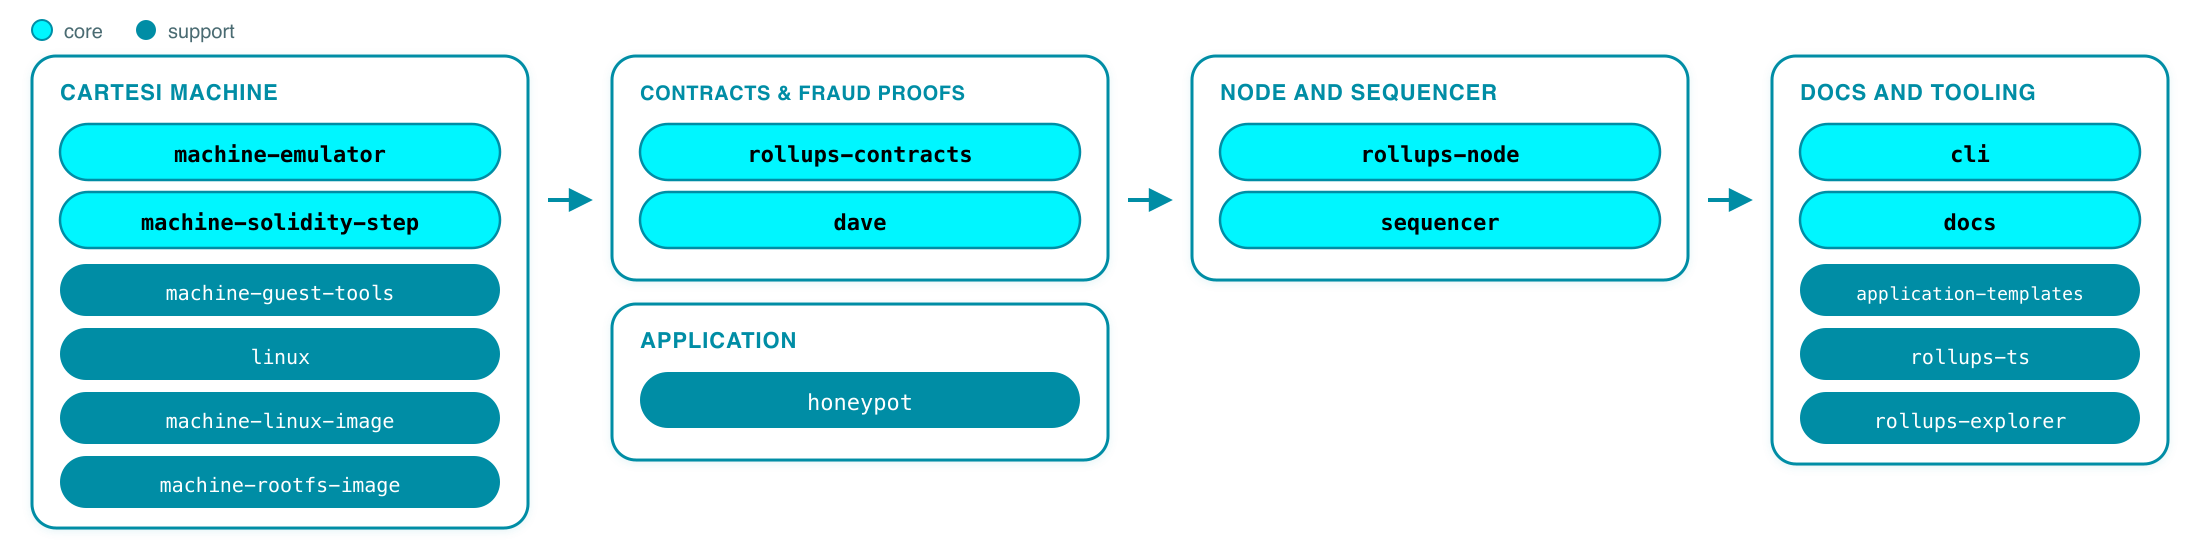
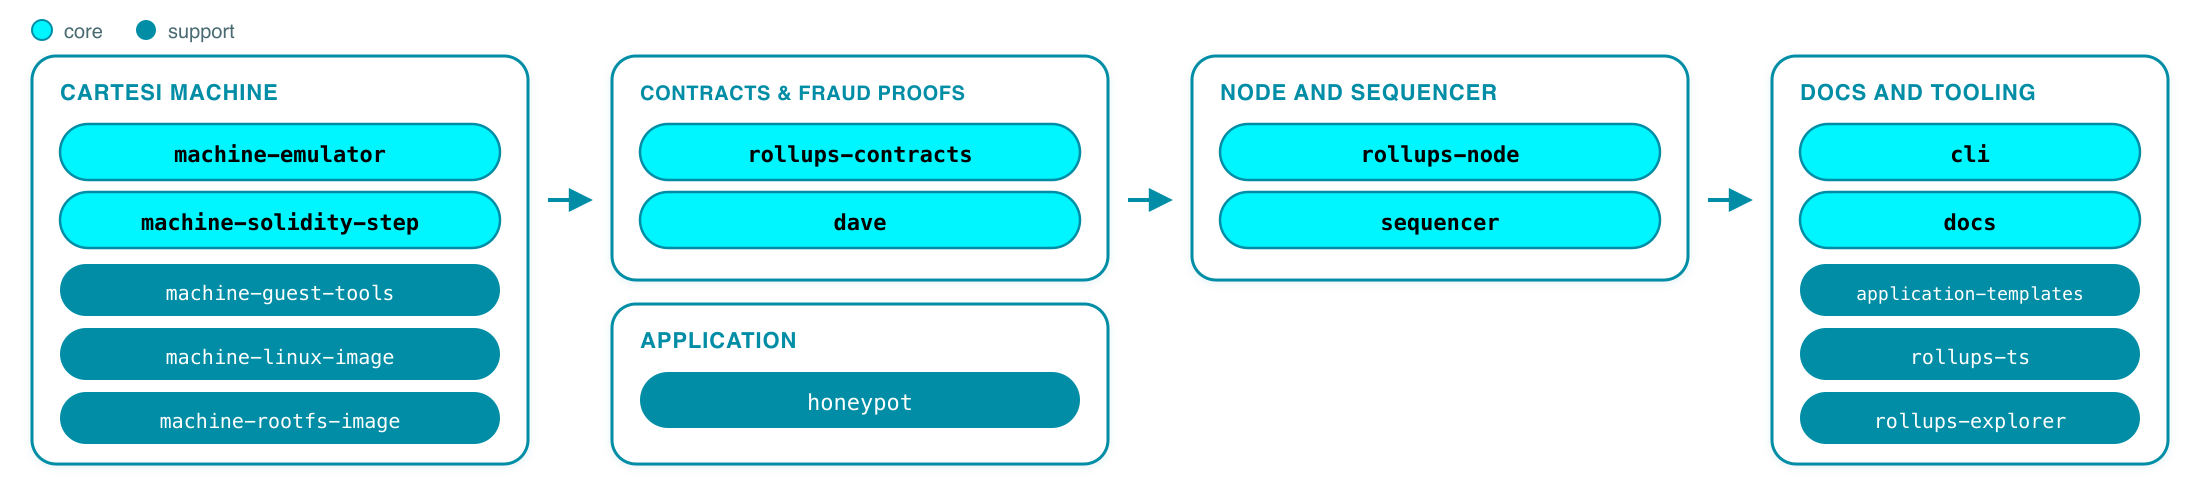
Promote the revised engineering map as the org README.
Keep the previous README as README.outdated.md and replace the stack diagram with the version that omits the linux kernel source repo.

diff --git a/README.md b/README.md
@@ -1,62 +1,62 @@
 # Cartesi Engineering Map
 
-[Cartesi](https://cartesi.io) enables developers to build with the languages, libraries, and tools they know and love. Computation runs inside a deterministic RISC-V virtual machine with a full Linux runtime (the **Cartesi Machine**).
+[Cartesi](https://cartesi.io) enables developers to build with the languages, libraries, and tools they know and love. Application computation runs inside a deterministic RISC-V virtual machine with a full Linux runtime (the **Cartesi Machine**).
 
-This page maps the repositories that make up Cartesi’s current engineering stack, with a focus on the **Rollups v2** architecture under active integration as of mid-2026.
+This page provides a curated map of the repositories that make up and support Cartesi’s current engineering stack, with a particular focus on the **Rollups v2** architecture under active integration as of mid-2026.
 
-> **Note:** This map is not exhaustive. Older, supporting, and superseded repositories remain public and open source on [`github.com/cartesi`](https://github.com/cartesi) for anyone to inspect, build on, or continue developing.
+> **Note:** This map is not exhaustive. Older, supporting, and superseded repositories remain public and open source on `[github.com/cartesi](https://github.com/cartesi)` for anyone to inspect, build on, or continue developing.
 
 ## Current engineering stack
 
-The Rollups stack is versioned as a dependency chain. Changes propagate in a fixed order: machine → contracts / fraud proofs → node → TypeScript / explorer / CLI → templates.
+Coordinated releases generally flow from the execution layer into contracts and fraud proofs, then the node, client tooling, explorer, CLI, and templates. The diagram below groups repositories by layer where cyan marks **core** components and teal marks **supporting** ones.
 
 ![Cartesi Rollups v2 engineering stack](./engineering-stack-white.png)
 
-#### How the pieces fit
+### How the pieces fit
 
-1. **Cartesi Machine** — deterministic RISC-V + Linux execution ([`machine-emulator`](https://github.com/cartesi/machine-emulator)), with an on-chain micro-architecture step verifier ([`machine-solidity-step`](https://github.com/cartesi/machine-solidity-step)) and guest-side tooling / rootfs ([`machine-guest-tools`](https://github.com/cartesi/machine-guest-tools), Linux image repos).
-2. **Rollups contracts** — L1 data availability (`InputBox`), application settlement, portals, Authority / Quorum consensus, and emergency-withdrawal primitives ([`rollups-contracts`](https://github.com/cartesi/rollups-contracts)).
-3. **Fraud proofs** — permissionless dispute system ([`dave`](https://github.com/cartesi/dave), PRT today; Dave algorithm next), coupled tightly to contracts and the machine step.
-4. **Node** — middleware between L1 contracts, the machine, and clients ([`rollups-node`](https://github.com/cartesi/rollups-node)): advance/inspect, claims, GraphQL / JSON-RPC surfaces.
-5. **Sequencer** — optional low-latency soft-confirmation path ([`sequencer`](https://github.com/cartesi/sequencer)); shares the emulator and is converging on node deployment conventions, not yet a required dependency of the SDK release train.
-6. **Docs and tooling** — [`CLI`](https://github.com/cartesi/cli), templates, TypeScript clients, explorer, and documentation.
+1. **Cartesi Machine** - Deterministic RISC-V + Linux execution (`[machine-emulator](https://github.com/cartesi/machine-emulator)`), with an on-chain micro-architecture step verifier (`[machine-solidity-step](https://github.com/cartesi/machine-solidity-step)`) and guest-side tooling / rootfs (`[machine-guest-tools](https://github.com/cartesi/machine-guest-tools)`, `[machine-linux-image](https://github.com/cartesi/machine-linux-image)`, `[machine-rootfs-image](https://github.com/cartesi/machine-rootfs-image)`).
+2. **Rollups Contracts** - L1 data availability (`InputBox`), application settlement, asset portals, and Authority / Quorum consensus and emergency-withdrawal primitives. (`[rollups-contracts](https://github.com/cartesi/rollups-contracts)`).
+3. **Fraud Proofs** - Permissionless dispute-resolution system (`[dave](https://github.com/cartesi/dave)`). PRT is the algorithm in use today; the eponymous Dave algorithm is research / next. Coupled tightly to rollups-contracts and the machine step.
+4. **Rollups Node** - Middleware between base layer contracts, the machine, and clients (`[rollups-node](https://github.com/cartesi/rollups-node)`): Machine advance, claims, a frontend JSON-RPC API, and a separate inspect REST API.
+5. **Sequencer** - Optional low-latency path for UX (`[sequencer](https://github.com/cartesi/sequencer)`): soft-confirms user operations and posts them in batches to InputBox. Not part of the SDK / CLI release train.
+6. **Docs and tooling** - Developer-facing entry points for learning, building, and testing applications: `[CLI](https://github.com/cartesi/cli)`, `[application-templates](https://github.com/cartesi/application-templates)`, TypeScript clients (`[rollups-ts](https://github.com/cartesi/rollups-ts)`), Explorer (`[rollups-explorer](https://github.com/cartesi/rollups-explorer)`), and `[docs](https://github.com/cartesi/docs)`.
 
 ## Start here
 
-- **Understand the architecture** — [Rollups architecture](https://docs.cartesi.io/cartesi-rollups/2.0/getting-started/architecture/)
-- **Explore the execution layer** — [Cartesi Machine docs](https://github.com/cartesi/machine-emulator/blob/main/doc/README.md)
-- **Build an application** — [Quickstart guide](https://docs.cartesi.io/get-started/quickstart/)
-
+- **Understand the architecture** - [Rollups architecture](https://docs.cartesi.io/cartesi-rollups/2.0/getting-started/architecture/)
+- **Build an application** - [Quickstart guide](https://docs.cartesi.io/get-started/quickstart/)
+- **Explore the execution layer** - [Cartesi Machine docs](https://github.com/cartesi/machine-emulator/blob/main/doc/README.md)
 
 ## Repository map
 
-| Repository | Purpose | Status |
-| --- | --- | --- |
-| [machine-emulator](https://github.com/cartesi/machine-emulator) | Off-chain RISC-V Cartesi Machine (C++). Deterministic Linux VM, Merkle proofs, JSON-RPC / Lua / C APIs. Optional RISC Zero step-proving path. Continuously developed alongside production releases. | Production |
-| [machine-solidity-step](https://github.com/cartesi/machine-solidity-step) | On-chain micro-architecture state-transition function; must match the emulator bit-for-bit for fraud proofs. | Production |
-| [machine-guest-tools](https://github.com/cartesi/machine-guest-tools) | Guest tools, RISC-V Debian packages, and root filesystem artifacts for machines. | Production |
-| [linux](https://github.com/cartesi/linux) | Cartesi-patched Linux kernel sources. | Production |
-| [machine-linux-image](https://github.com/cartesi/machine-linux-image) | Build pipeline for the kernel image. | Production |
-| [machine-rootfs-image](https://github.com/cartesi/machine-rootfs-image) | Build pipeline for the root filesystem image. | Production |
-| [rollups-contracts](https://github.com/cartesi/rollups-contracts) | Rollups smart contracts: InputBox, Application, portals, Authority/Quorum, claim staging, emergency withdrawal. Deployed as a public good on major EVM chains. v2 line in production; v3 alphas under active development. | Production |
-| [dave](https://github.com/cartesi/dave) | Permissionless fraud-proof suite (PRT algorithm; Dave algorithm research/next). Contracts + Rust/Lua nodes. Versioned with rollups-contracts. Experimental / alpha. | Experimental |
-| [honeypot](https://github.com/cartesi/honeypot) | Hardened ERC-20 vault DApp used as a security reference on Cartesi Rollups. | Production |
-| [rollups-node](https://github.com/cartesi/rollups-node) | Reference Rollups node: L1 reader, machine runner, claims, GraphQL / inspect / JSON-RPC. Integration pivot for the SDK. v2 alphas toward stable. | Active development |
-| [sequencer](https://github.com/cartesi/sequencer) | Deterministic sequencer with soft confirmations, batch submission, recovery, and watchdog. Prototype / alpha; testnet deployment in progress. | Experimental |
-| [cli](https://github.com/cartesi/cli) | Cartesi CLI + SDK image: create, build, run, deploy. Successor to Sunodo branding. v2 alphas. | Active development |
-| [application-templates](https://github.com/cartesi/application-templates) | Templates consumed by `cartesi create`. | Active development |
-| [rollups-ts](https://github.com/cartesi/rollups-ts) | TypeScript libraries (`@cartesi/rpc`, client/react packages, etc.) for frontends and tooling. | Active development |
-| [rollups-explorer](https://github.com/cartesi/rollups-explorer) | Rollups application explorer UI. | Active development |
-| [rollups-explorer-api](https://github.com/cartesi/rollups-explorer-api) | Indexer / API behind the Rollups explorer. | Active development |
-| [docs](https://github.com/cartesi/docs) | Official documentation (Docusaurus), including machine-readable / LLM-oriented delivery. Continuously updated alongside the stack. | Production |
+The table below lists the repositories in the current stack, with a short purpose for each and a status label. The *Status* column describes a repository’s role in this mapped stack:
+
+- **Production** - stable releases in production use (may still receive ongoing development)
+- **Active development** - part of the current Rollups v2 integration train; expect change until the stack stabilizes
+- **Experimental** - prototype or research; not yet validated for broader use
+
+
+| Repository                                                                | Purpose                                                                                                                                                                                                                      | Status             |
+| ------------------------------------------------------------------------- | ---------------------------------------------------------------------------------------------------------------------------------------------------------------------------------------------------------------------------- | ------------------ |
+| [machine-emulator](https://github.com/cartesi/machine-emulator)           | Off-chain RISC-V Cartesi Machine (C++). Deterministic Linux VM, Merkle proofs, JSON-RPC / Lua / C APIs. Optional RISC Zero integration for proofs of machine state transitions.                                              | Production         |
+| [machine-solidity-step](https://github.com/cartesi/machine-solidity-step) | On-chain micro-architecture state-transition function; must match the emulator bit-for-bit for fraud proofs.                                                                                                                 | Production         |
+| [machine-guest-tools](https://github.com/cartesi/machine-guest-tools)     | Guest tools, RISC-V Debian packages, and root filesystem artifacts for machines.                                                                                                                                             | Production         |
+| [machine-linux-image](https://github.com/cartesi/machine-linux-image)     | Build pipeline for the kernel image.                                                                                                                                                                                         | Production         |
+| [machine-rootfs-image](https://github.com/cartesi/machine-rootfs-image)   | Build pipeline for root filesystem images. Supporting image-build tooling; current guest rootfs artifacts are also published via machine-guest-tools.                                                                        | Production         |
+| [rollups-contracts](https://github.com/cartesi/rollups-contracts)         | Rollups smart contracts: InputBox, Application, portals, Authority / Quorum. Deployed as a public good on major EVM chains. Stable v2 line in production; v3 alphas add claim-lifecycle and emergency-withdrawal primitives. | Production         |
+| [dave](https://github.com/cartesi/dave)                                   | Permissionless fraud-proof suite. PRT algorithm in use today (stable releases; also used by Honeypot); v3 integration alphas; Dave algorithm in research. Contracts + Rust / Lua nodes. Versioned with rollups-contracts.    | Active development |
+| [honeypot](https://github.com/cartesi/honeypot)                           | Hardened ERC-20 vault DApp used as a security reference on Cartesi Rollups.                                                                                                                                                  | Production         |
+| [rollups-node](https://github.com/cartesi/rollups-node)                   | Reference Rollups node: L1 reader, machine runner, claims, frontend JSON-RPC API, and inspect REST API. Integration pivot for the SDK. v2 alphas toward stable.                                                              | Active development |
+| [sequencer](https://github.com/cartesi/sequencer)                         | Optional centralized sequencer prototype: optimistic soft confirmations, deterministic ordering, batched L1 submission, recovery, and watchdog. CLI / SDK integration unfinished.                                            | Experimental       |
+| [cli](https://github.com/cartesi/cli)                                     | Cartesi CLI + SDK image: create, build, run, deploy. Replaces the previous v1.x / Sunodo development and deployment workflow. v2 alphas.                                                                                     | Active development |
+| [application-templates](https://github.com/cartesi/application-templates) | Templates consumed by `cartesi create`.                                                                                                                                                                                      | Active development |
+| [rollups-ts](https://github.com/cartesi/rollups-ts)                       | TypeScript libraries (`@cartesi/rpc`, client / react packages, etc.) for frontends and tooling.                                                                                                                              | Active development |
+| [rollups-explorer](https://github.com/cartesi/rollups-explorer)           | Rollups application explorer UI.                                                                                                                                                                                             | Active development |
+| [docs](https://github.com/cartesi/docs)                                   | Official documentation (Docusaurus), including machine-readable / LLM-oriented delivery. Continuously updated alongside the stack.                                                                                           | Production         |
 
 
 ## Release status
 
 As of mid-2026, the Rollups **v2** stack is progressing through coordinated alpha releases across the node, contracts, fraud-proof system, CLI/SDK, explorer, and TypeScript clients. Cartesi Machine components, including the emulator, Solidity step, and guest tools, continue to publish production releases used by the v2 stack.
 
-The **Status** column in the map above uses three labels:
-
-- **Production**: released and in production use
-- **Active development**: continues to evolve as part of the current engineering stack
-- **Experimental**: still being tested or validated before broader use
+Join the [Cartesi Discord](https://discord.gg/cartesi) for community discussion, questions, and updates on the stack.

diff --git a/README.outdated.md b/README.outdated.md
@@ -1,0 +1,62 @@
+# Cartesi Engineering Map
+
+[Cartesi](https://cartesi.io) enables developers to build with the languages, libraries, and tools they know and love. Computation runs inside a deterministic RISC-V virtual machine with a full Linux runtime (the **Cartesi Machine**).
+
+This page maps the repositories that make up Cartesi’s current engineering stack, with a focus on the **Rollups v2** architecture under active integration as of mid-2026.
+
+> **Note:** This map is not exhaustive. Older, supporting, and superseded repositories remain public and open source on [`github.com/cartesi`](https://github.com/cartesi) for anyone to inspect, build on, or continue developing.
+
+## Current engineering stack
+
+The Rollups stack is versioned as a dependency chain. Changes propagate in a fixed order: machine → contracts / fraud proofs → node → TypeScript / explorer / CLI → templates.
+
+![Cartesi Rollups v2 engineering stack](./engineering-stack-white.png)
+
+#### How the pieces fit
+
+1. **Cartesi Machine** — deterministic RISC-V + Linux execution ([`machine-emulator`](https://github.com/cartesi/machine-emulator)), with an on-chain micro-architecture step verifier ([`machine-solidity-step`](https://github.com/cartesi/machine-solidity-step)) and guest-side tooling / rootfs ([`machine-guest-tools`](https://github.com/cartesi/machine-guest-tools), Linux image repos).
+2. **Rollups contracts** — L1 data availability (`InputBox`), application settlement, portals, Authority / Quorum consensus, and emergency-withdrawal primitives ([`rollups-contracts`](https://github.com/cartesi/rollups-contracts)).
+3. **Fraud proofs** — permissionless dispute system ([`dave`](https://github.com/cartesi/dave), PRT today; Dave algorithm next), coupled tightly to contracts and the machine step.
+4. **Node** — middleware between L1 contracts, the machine, and clients ([`rollups-node`](https://github.com/cartesi/rollups-node)): advance/inspect, claims, GraphQL / JSON-RPC surfaces.
+5. **Sequencer** — optional low-latency soft-confirmation path ([`sequencer`](https://github.com/cartesi/sequencer)); shares the emulator and is converging on node deployment conventions, not yet a required dependency of the SDK release train.
+6. **Docs and tooling** — [`CLI`](https://github.com/cartesi/cli), templates, TypeScript clients, explorer, and documentation.
+
+## Start here
+
+- **Understand the architecture** — [Rollups architecture](https://docs.cartesi.io/cartesi-rollups/2.0/getting-started/architecture/)
+- **Explore the execution layer** — [Cartesi Machine docs](https://github.com/cartesi/machine-emulator/blob/main/doc/README.md)
+- **Build an application** — [Quickstart guide](https://docs.cartesi.io/get-started/quickstart/)
+
+
+## Repository map
+
+| Repository | Purpose | Status |
+| --- | --- | --- |
+| [machine-emulator](https://github.com/cartesi/machine-emulator) | Off-chain RISC-V Cartesi Machine (C++). Deterministic Linux VM, Merkle proofs, JSON-RPC / Lua / C APIs. Optional RISC Zero step-proving path. Continuously developed alongside production releases. | Production |
+| [machine-solidity-step](https://github.com/cartesi/machine-solidity-step) | On-chain micro-architecture state-transition function; must match the emulator bit-for-bit for fraud proofs. | Production |
+| [machine-guest-tools](https://github.com/cartesi/machine-guest-tools) | Guest tools, RISC-V Debian packages, and root filesystem artifacts for machines. | Production |
+| [linux](https://github.com/cartesi/linux) | Cartesi-patched Linux kernel sources. | Production |
+| [machine-linux-image](https://github.com/cartesi/machine-linux-image) | Build pipeline for the kernel image. | Production |
+| [machine-rootfs-image](https://github.com/cartesi/machine-rootfs-image) | Build pipeline for the root filesystem image. | Production |
+| [rollups-contracts](https://github.com/cartesi/rollups-contracts) | Rollups smart contracts: InputBox, Application, portals, Authority/Quorum, claim staging, emergency withdrawal. Deployed as a public good on major EVM chains. v2 line in production; v3 alphas under active development. | Production |
+| [dave](https://github.com/cartesi/dave) | Permissionless fraud-proof suite (PRT algorithm; Dave algorithm research/next). Contracts + Rust/Lua nodes. Versioned with rollups-contracts. Experimental / alpha. | Experimental |
+| [honeypot](https://github.com/cartesi/honeypot) | Hardened ERC-20 vault DApp used as a security reference on Cartesi Rollups. | Production |
+| [rollups-node](https://github.com/cartesi/rollups-node) | Reference Rollups node: L1 reader, machine runner, claims, GraphQL / inspect / JSON-RPC. Integration pivot for the SDK. v2 alphas toward stable. | Active development |
+| [sequencer](https://github.com/cartesi/sequencer) | Deterministic sequencer with soft confirmations, batch submission, recovery, and watchdog. Prototype / alpha; testnet deployment in progress. | Experimental |
+| [cli](https://github.com/cartesi/cli) | Cartesi CLI + SDK image: create, build, run, deploy. Successor to Sunodo branding. v2 alphas. | Active development |
+| [application-templates](https://github.com/cartesi/application-templates) | Templates consumed by `cartesi create`. | Active development |
+| [rollups-ts](https://github.com/cartesi/rollups-ts) | TypeScript libraries (`@cartesi/rpc`, client/react packages, etc.) for frontends and tooling. | Active development |
+| [rollups-explorer](https://github.com/cartesi/rollups-explorer) | Rollups application explorer UI. | Active development |
+| [rollups-explorer-api](https://github.com/cartesi/rollups-explorer-api) | Indexer / API behind the Rollups explorer. | Active development |
+| [docs](https://github.com/cartesi/docs) | Official documentation (Docusaurus), including machine-readable / LLM-oriented delivery. Continuously updated alongside the stack. | Production |
+
+
+## Release status
+
+As of mid-2026, the Rollups **v2** stack is progressing through coordinated alpha releases across the node, contracts, fraud-proof system, CLI/SDK, explorer, and TypeScript clients. Cartesi Machine components, including the emulator, Solidity step, and guest tools, continue to publish production releases used by the v2 stack.
+
+The **Status** column in the map above uses three labels:
+
+- **Production**: released and in production use
+- **Active development**: continues to evolve as part of the current engineering stack
+- **Experimental**: still being tested or validated before broader use
